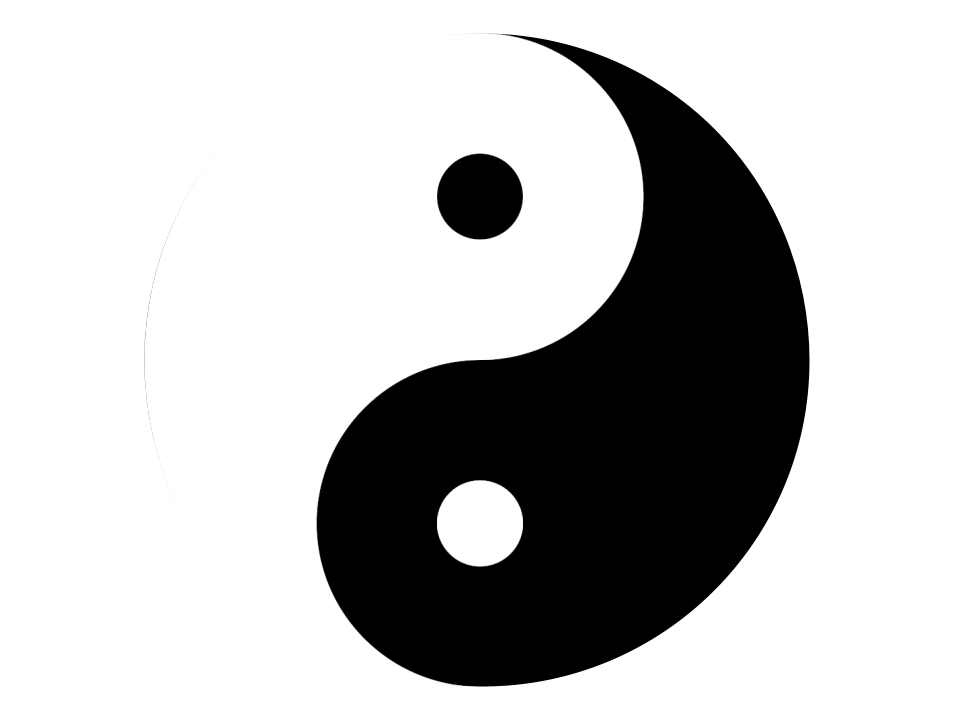
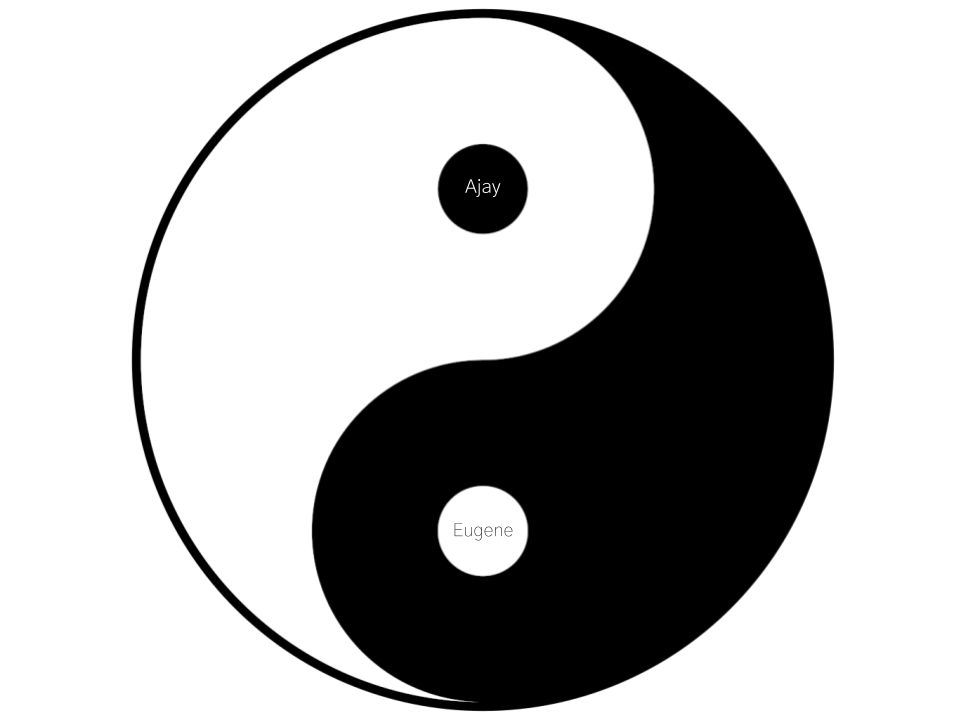
added individual halves of yinyang

diff --git a/src/src/App.js b/src/src/App.js
@@ -1,15 +1,19 @@
 import './App.css';
 import TopBar from './components/TopBar';
 import yin_yang from './img/yinyang.png';
-import yin_yang2 from './img/yinyang2.png';
-import yin_yang3 from './img/yinyang3.png';
+import yin_yang_black from './img/yinyangblack.png';
+import yin_yang_white from './img/yinyangwhite.png';
 
 export default function App() {
     return (
       <div className="page-container">
         <TopBar />
         <div className="landing-main-area mt-5">
-          <img src={yin_yang3} className="yinyang"/>
+          <img src={yin_yang} className="yinyang" type="button" onclick={alert("Testing")}/>
+          <div className="composite-yin-yang">
+            <img src={yin_yang_black} className="yinyang"/>
+            <img src={yin_yang_white} className="yinyang"/>
+          </div>
         </div>
       </div>
     );

diff --git a/src/src/App.css b/src/src/App.css
@@ -11,6 +11,13 @@
   align-items: center;
 }
 
+.composite-yin-yang {
+  display: flex;
+  flex-direction: row;
+  justify-content: center;
+  gap: 0px;
+}
+
 .yinyang {
   height: calc(70vh);
   -webkit-animation:spin 20s linear infinite;
